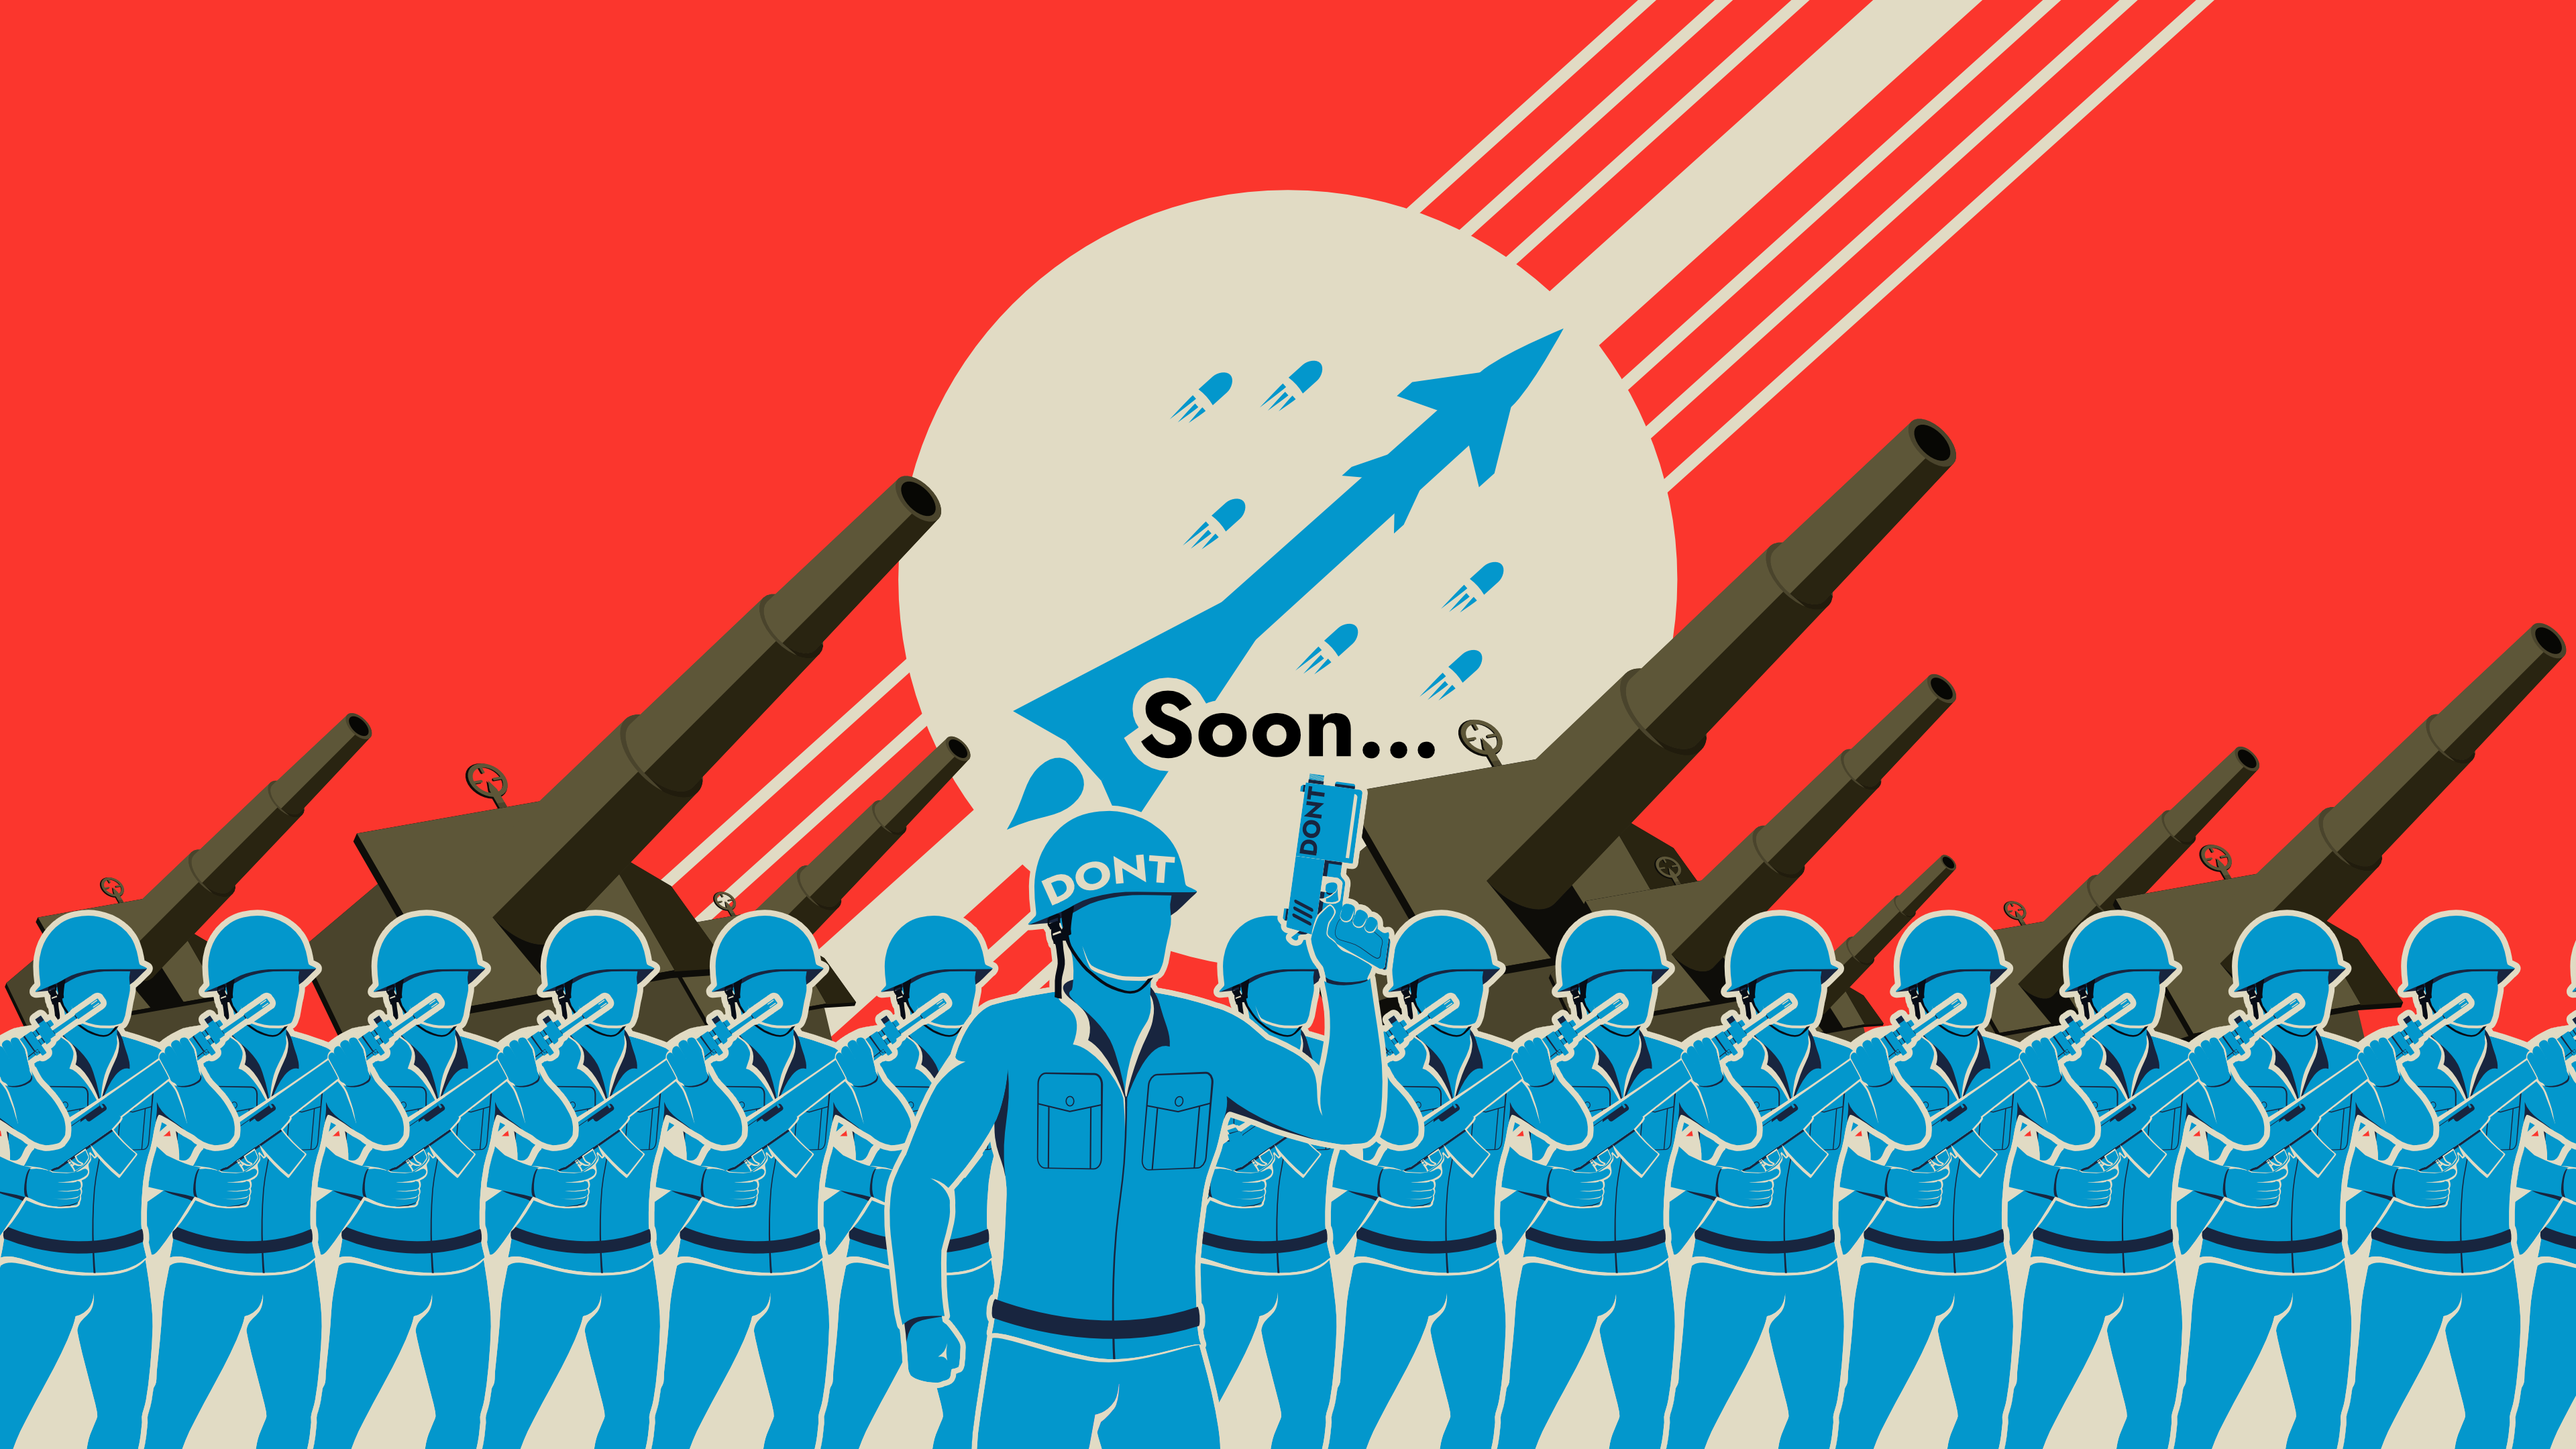
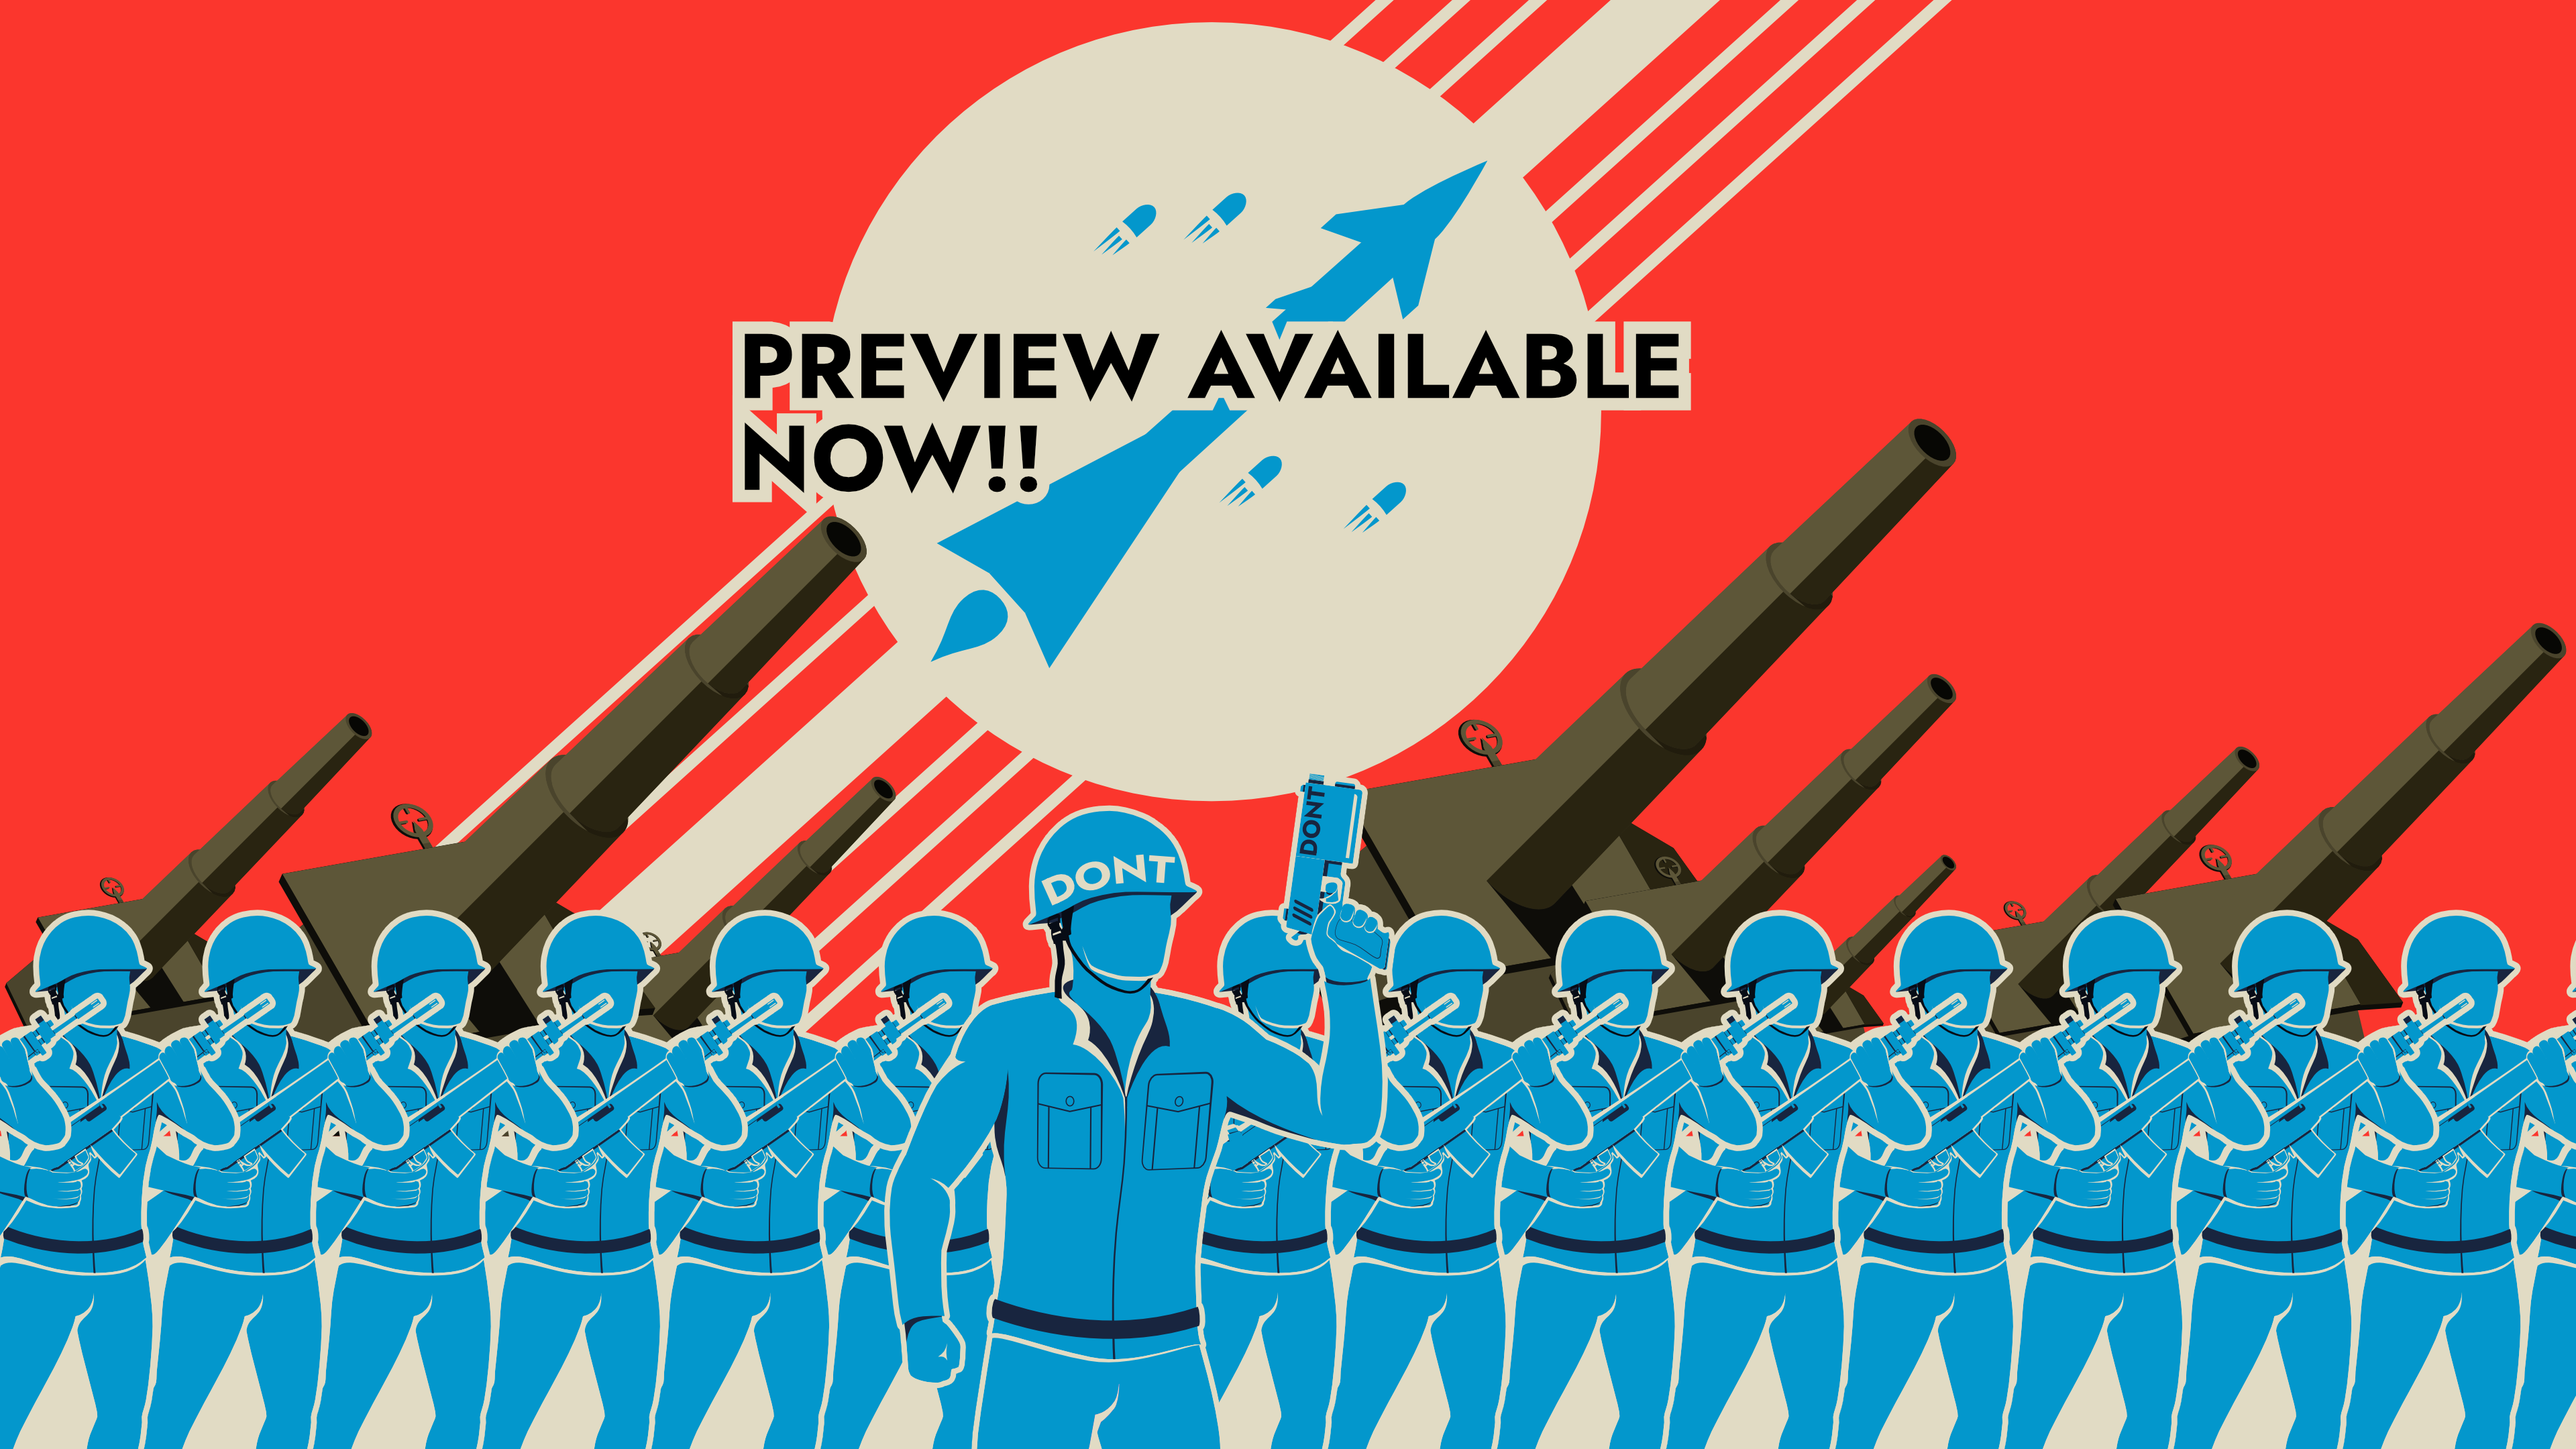
Update for game release

Changed region(s): [[0.0938, 0.0, 0.875, 0.7134]]

diff --git a/src/routes/faq/+page.svelte b/src/routes/faq/+page.svelte
@@ -1,18 +1,20 @@
 <article>
 <h1>What is this?</h1>
-<p>Well, you're here a bit early, but it's a game! The full explanation will come with the Steam page, but if you're so inclined you can look at the most recent alpha build here:</p>
-<a href="https://the-goodship-friendship.itch.io/defense-of-nations">[ALPHA] Defense of Nations (on Itch.io)</a>
+<p>A base defense shooter in the vein of flash game classics like <em>Elona Shooter</em> and <em>Defend Your Castle</em> but with a satirical, political-sim twist. Shoot hordes of monsters, negotiate your operating budget, and navigate international rivalries, all for <strong style="color: #0397CC;">The Good of Humanity™!</strong></p>
 <h1>Who are you?</h1>
-<p><strong>The Goodship Friendship!</strong> … A solo developer from the States doing this commercially for the first time.</p>
+<p><strong>The Goodship Friendship!</strong> … A solo developer from the States attempting to do this professionally for the first time.</p>
 <p>I like pizza, long walks in the rain, and arguing about what the genre “Action Adventure” even means.</p>
 <p>(this will technically be one, by the by)</p>
+<h1>When will the full game come out?</h1>
+<p>Depends on what funding I can find. I didn't want to do Early Access only to discover that I won't be able to deliver a game I'm proud of for a few more years, so I'm just putting a preview demo out to show everyone the vision in action and we'll see where things go.</p>
+<h1>What platforms do you plan to support?</h1>
+<p>PC and Steam Deck primarily with high liklihood for Mac as well.</p>
+<p>Mobile and Console support are also being kept in mind design-wise but not actively developed for.</p>
 <h1>Why are you doing this?</h1>
 <p><del>Money</del> Money.</p>
 <p>Like they say. No easier path to riches than making art.</p>
-<h1>Did you really need a FAQ for this?</h1>
-<p>Yes. I've wanted one of these for like, ever. Thank you very much for asking.</p>
-<h1 class="smoll">Should I play the Trails series of JRPGs?</h1>
-<p class="smoll">If you have a Steam account, Trails in the Sky is the best starting point, otherwise Trails of Cold Steel is widely available and a fun time as well. They feature a best-in-genre combat system and a expansive and detailed world full of fully fleshed out characters and unforgettable stories. The current overarching narrative begins at Sky First Chapter and spans 10 games currently released in US with ........</p>
+<p>There's also something about having a passion for game design since I was a young kid and realizing that if I really want something to happen I need to just start doing it and all that.</p>
+<p>But we'll just keep it simple with: “the money.”</p>
 </article>
 
 <style>

diff --git a/src/routes/+page.svelte b/src/routes/+page.svelte
@@ -1,5 +1,11 @@
 <section id="splash">
-	<div id="splash-border"><div id="splash-image" /></div>
+	<div id="splash-border">
+		<div id="splash-image">
+			<a class="splash-link" href="https://store.steampowered.com/app/2571840/Defense_of_Nations/" target="_blank">
+				Try it on Steam
+			</a>
+		</div>
+	</div>
 </section>
 
 <section id="game-desc">
@@ -57,6 +63,25 @@ h1 {
 	flex-direction: column;
 	padding: 8px;
 	width: 100%;
+}
+
+.splash-link {
+	margin-left: 2ch;
+	margin-bottom: 3.5ex;
+	padding: 12px;
+	width: 6.5ch;
+	line-height: 1.8ex;
+	color: #000;
+	background-color: #74C5E2;
+	border: 8px solid #E1DBC4;
+	border-radius: 20px;
+	outline: 8px solid #000;
+	transition: background-color 0.2s, border-color 0.2s;
+}
+
+.splash-link:focus, .splash-link:hover {
+	background-color: #F8C635;
+	border-color: #000;
 }
 
 @media screen and (min-width: 750px) {

diff --git a/svelte.config.js b/svelte.config.js
@@ -1,11 +1,8 @@
-import adapter from '@sveltejs/adapter-auto';
+import adapter from '@sveltejs/adapter-static';
 
 /** @type {import('@sveltejs/kit').Config} */
 const config = {
 	kit: {
-		// adapter-auto only supports some environments, see https://kit.svelte.dev/docs/adapter-auto for a list.
-		// If your environment is not supported or you settled on a specific environment, switch out the adapter.
-		// See https://kit.svelte.dev/docs/adapters for more information about adapters.
 		adapter: adapter()
 	}
 };

diff --git a/src/routes/+layout.js b/src/routes/+layout.js
@@ -1,0 +1,1 @@
+export const prerender = true;

diff --git a/README.md b/README.md
@@ -1,38 +1,3 @@
-# create-svelte
+# Website for Defense of Nations
 
-Everything you need to build a Svelte project, powered by [`create-svelte`](https://github.com/sveltejs/kit/tree/master/packages/create-svelte).
-
-## Creating a project
-
-If you're seeing this, you've probably already done this step. Congrats!
-
-```bash
-# create a new project in the current directory
-npm create svelte@latest
-
-# create a new project in my-app
-npm create svelte@latest my-app
-```
-
-## Developing
-
-Once you've created a project and installed dependencies with `npm install` (or `pnpm install` or `yarn`), start a development server:
-
-```bash
-npm run dev
-
-# or start the server and open the app in a new browser tab
-npm run dev -- --open
-```
-
-## Building
-
-To create a production version of your app:
-
-```bash
-npm run build
-```
-
-You can preview the production build with `npm run preview`.
-
-> To deploy your app, you may need to install an [adapter](https://kit.svelte.dev/docs/adapters) for your target environment.
+by The Goodship Friendship
